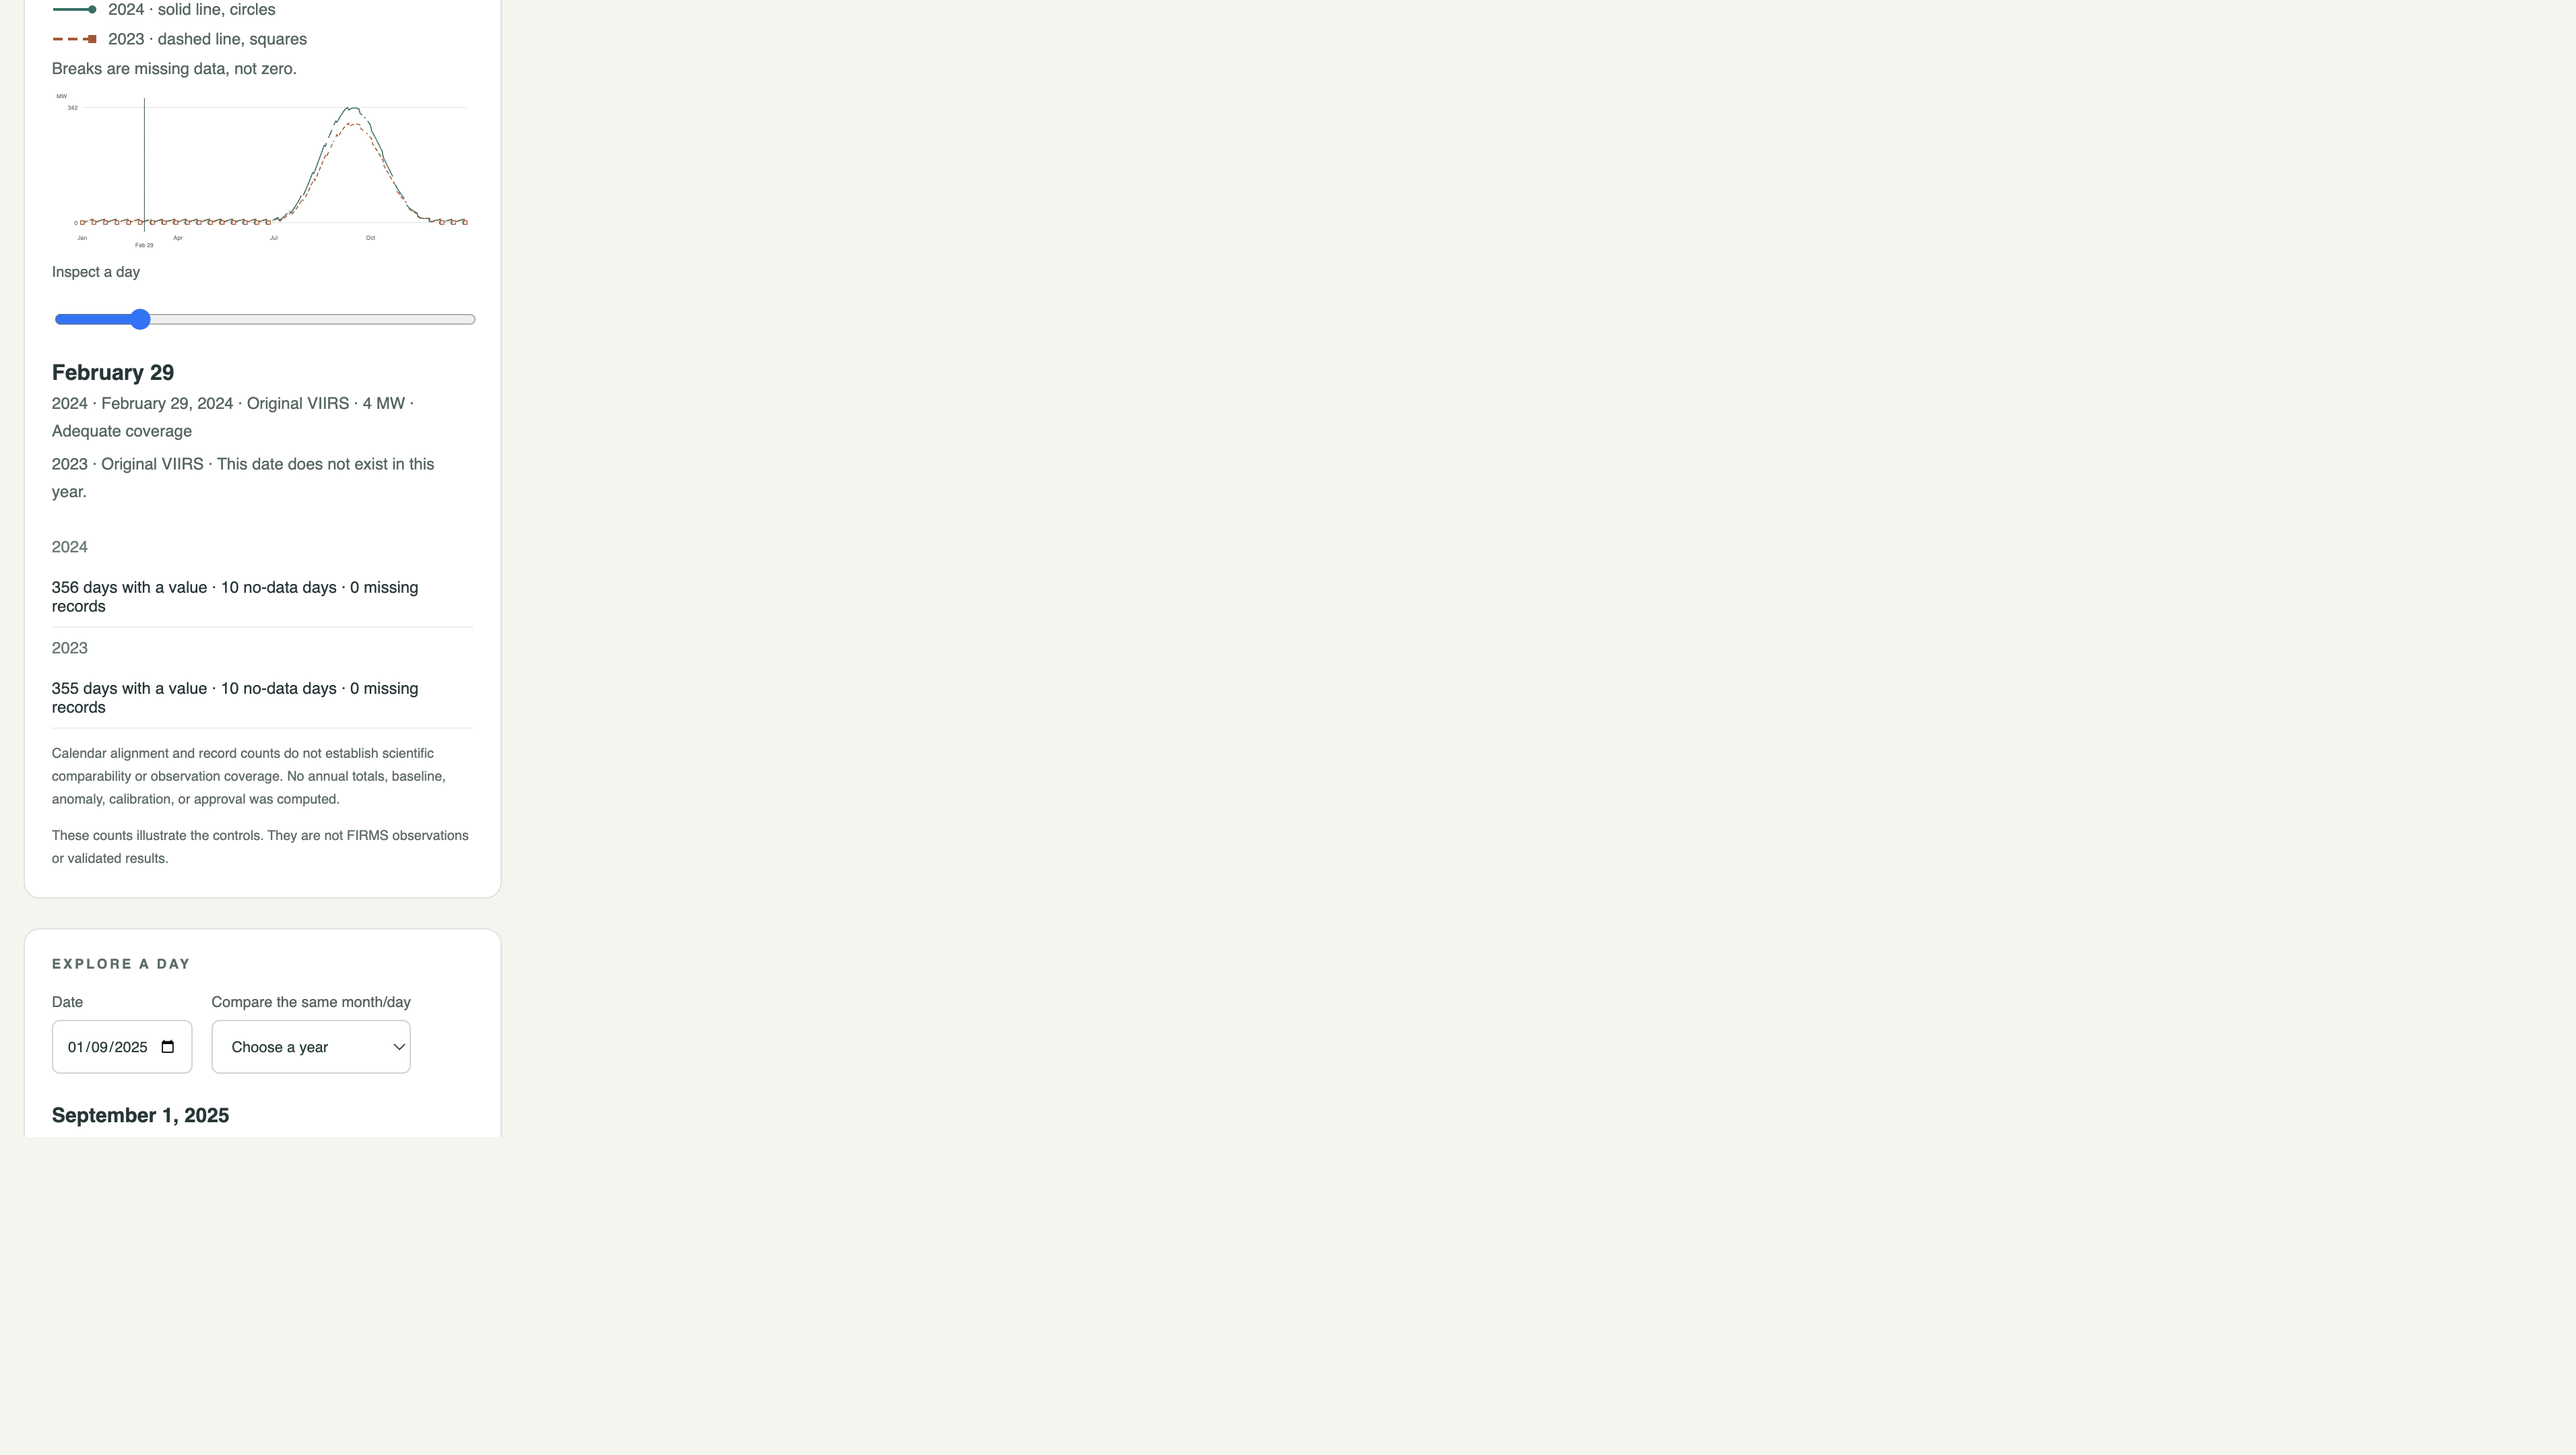
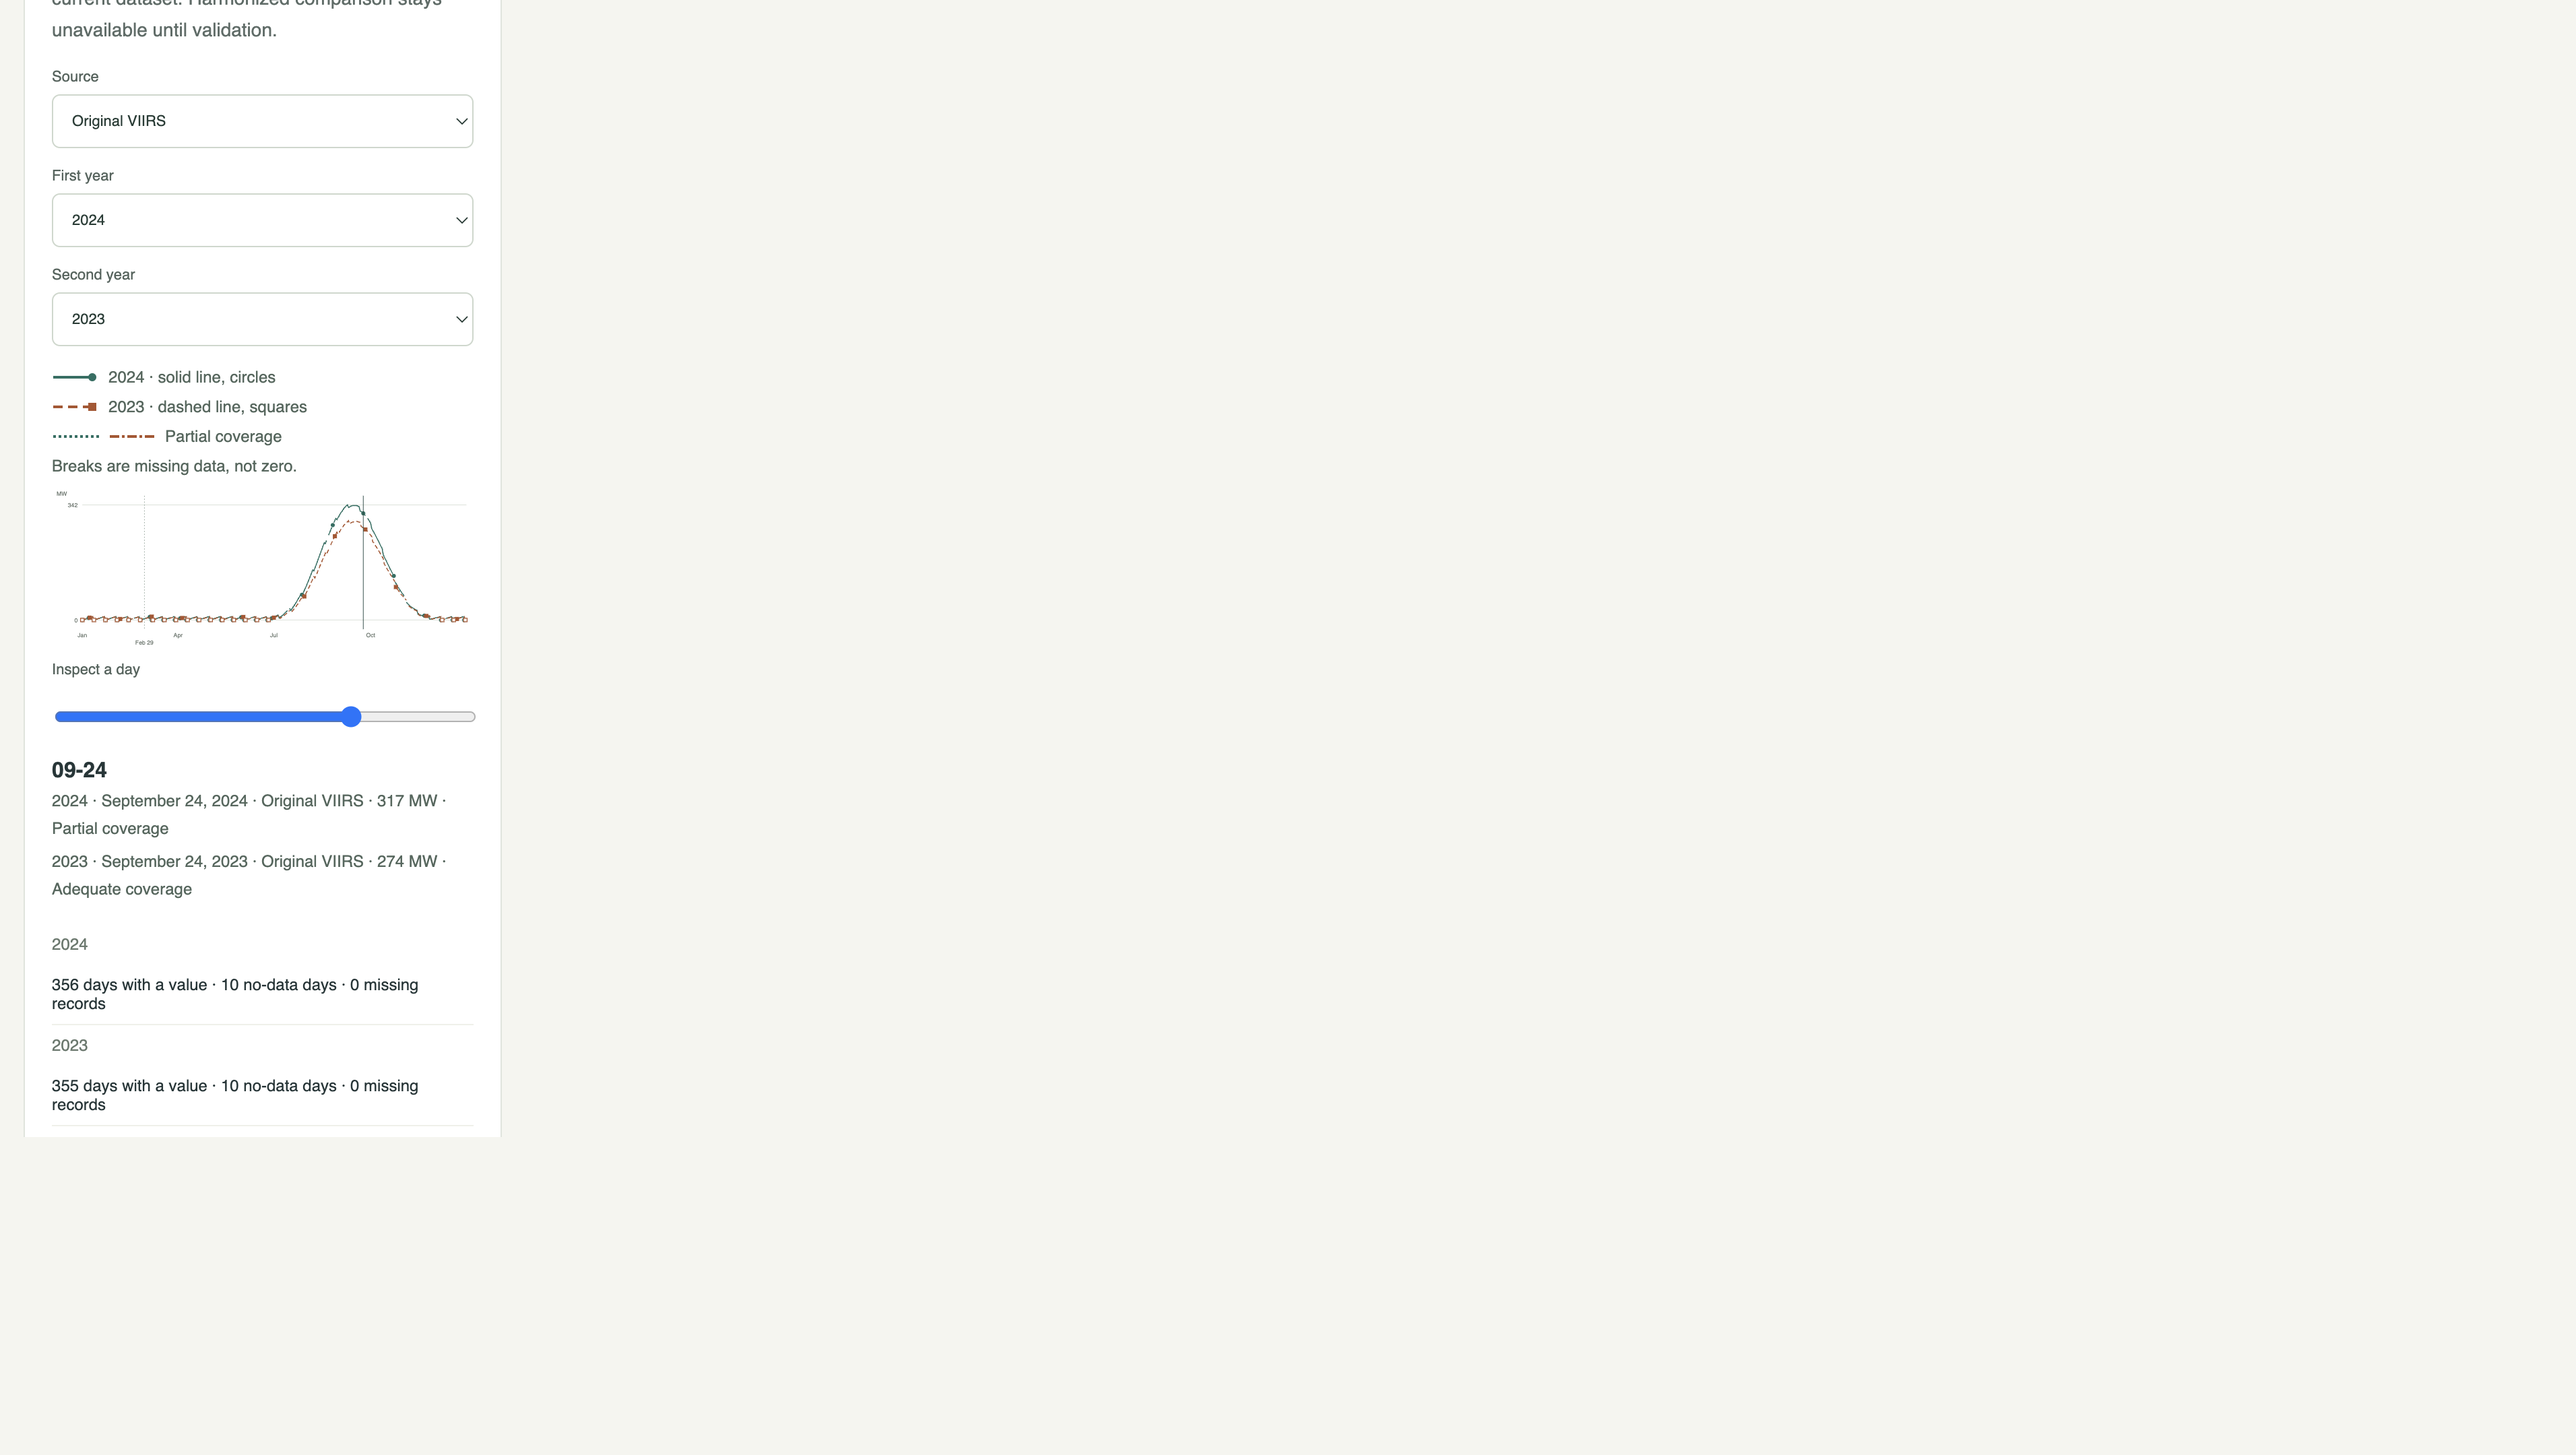
fix: show isolated nonzero comparison days
A one-day segment only produced a move command, so a real value between gaps disappeared. Each year now keeps its own marker, and the legend shows the partial-coverage strokes.

diff --git a/app/src/components/ComparisonChart.tsx b/app/src/components/ComparisonChart.tsx
@@ -7,7 +7,9 @@ import {
 import {
   describePoint,
   FEBRUARY_29_SLOT,
+  segmentDash,
   segmentPath,
+  singletonValue,
   valueToY,
 } from "../data/comparison-chart";
 import { formatMetric } from "../data/format";
@@ -101,6 +103,31 @@ export default function ComparisonChart({
             {index === 0 ? "solid line, circles" : "dashed line, squares"}
           </span>
         ))}
+        <span>
+          <svg className="legend-sample" viewBox="0 0 36 12" aria-hidden="true">
+            <line
+              x1="1"
+              y1="6"
+              x2="35"
+              y2="6"
+              stroke="#1f6f62"
+              strokeWidth="2"
+              strokeDasharray={segmentDash(partialSample, "")}
+            />
+          </svg>
+          <svg className="legend-sample" viewBox="0 0 36 12" aria-hidden="true">
+            <line
+              x1="1"
+              y1="6"
+              x2="35"
+              y2="6"
+              stroke="#ad532b"
+              strokeWidth="2"
+              strokeDasharray={segmentDash(partialSample, "7 4")}
+            />
+          </svg>
+          Partial coverage
+        </span>
         <span>Breaks are missing data, not zero.</span>
       </div>
       <svg
@@ -191,18 +218,33 @@ export default function ComparisonChart({
         ))}
         {comparison.series.map((series, index) => (
           <g key={series.year}>
-            {series.segments.map((segment) => (
-              <path
-                key={`${series.year}-${segment.startSlot}-${segment.status}`}
-                d={segmentPath(series.points, segment, x, y)}
-                fill="none"
-                stroke={index === 0 ? "#1f6f62" : "#ad532b"}
-                strokeWidth={segment.isExtrapolated ? 1.25 : 1.75}
-                strokeDasharray={
-                  dashFor(segment, styles[index].dash) || undefined
-                }
-              />
-            ))}
+            {series.segments.map((segment) => {
+              const alone = singletonValue(series.points, segment);
+              const color = index === 0 ? "#1f6f62" : "#ad532b";
+              return (
+                <g
+                  key={`${series.year}-${segment.startSlot}-${segment.status}`}
+                >
+                  <path
+                    d={segmentPath(series.points, segment, x, y)}
+                    fill="none"
+                    stroke={color}
+                    strokeWidth={segment.isExtrapolated ? 1.25 : 1.75}
+                    strokeDasharray={
+                      segmentDash(segment, styles[index].dash) || undefined
+                    }
+                  />
+                  {alone === null ? null : (
+                    <SingletonMark
+                      cx={x(segment.startSlot)}
+                      cy={y(alone)}
+                      square={index === 1}
+                      color={color}
+                    />
+                  )}
+                </g>
+              );
+            })}
             {series.points
               .filter((item) => item.value === 0)
               .map((item) => (
@@ -262,11 +304,30 @@ export default function ComparisonChart({
   );
 }
 
-function dashFor(segment: ComparisonSegment, yearDash: string) {
-  if (segment.isExtrapolated || segment.valueBasis === "estimated_from_modis")
-    return "2 3";
-  if (segment.status === "partial") return yearDash ? "7 2 2 2" : "2 2";
-  return yearDash;
+const partialSample: ComparisonSegment = {
+  startSlot: 0,
+  endSlot: 0,
+  status: "partial",
+  valueBasis: "observed_viirs",
+  isExtrapolated: false,
+};
+
+function SingletonMark({
+  cx,
+  cy,
+  square,
+  color,
+}: {
+  cx: number;
+  cy: number;
+  square: boolean;
+  color: string;
+}) {
+  return square ? (
+    <rect x={cx - 3.5} y={cy - 3.5} width="7" height="7" fill={color} />
+  ) : (
+    <circle cx={cx} cy={cy} r="3.5" fill={color} />
+  );
 }
 
 function ZeroMark({

diff --git a/app/src/data/comparison-chart.test.ts b/app/src/data/comparison-chart.test.ts
@@ -5,7 +5,9 @@ import type { ComparisonPoint, ComparisonSegment } from "./annual-comparison";
 import {
   describePoint,
   FEBRUARY_29_SLOT,
+  segmentDash,
   segmentPath,
+  singletonValue,
   valueToY,
 } from "./comparison-chart";
 
@@ -77,6 +79,36 @@ test("a segment path does not cross a gap or a coverage change", () => {
     ).startsWith("M20"),
     true,
   );
+});
+
+test("a one-day nonzero segment keeps a marker and does not draw a line", () => {
+  const points = [point(4, 12), point(5, null, "no_data"), point(6, 0)];
+  const alone: ComparisonSegment = {
+    startSlot: 4,
+    endSlot: 4,
+    status: "available",
+    valueBasis: "observed_viirs",
+    isExtrapolated: false,
+  };
+  const path = segmentPath(
+    points,
+    alone,
+    (slot) => slot * 10,
+    (value) => value,
+  );
+  assert.equal(path.includes("L"), false);
+  assert.equal(singletonValue(points, alone), 12);
+  assert.equal(
+    singletonValue(points, { ...alone, startSlot: 6, endSlot: 6 }),
+    null,
+  );
+  assert.equal(
+    singletonValue(points, { ...alone, startSlot: 4, endSlot: 6 }),
+    null,
+  );
+  const partial: ComparisonSegment = { ...alone, status: "partial" };
+  assert.equal(segmentDash(partial, ""), "2 2");
+  assert.equal(segmentDash(partial, "7 4"), "7 2 2 2");
 });
 
 test("zero stays distinct from missing data in the inspection text", () => {

diff --git a/app/src/data/comparison-chart.ts b/app/src/data/comparison-chart.ts
@@ -39,6 +39,28 @@ export function valueToY(
   return bottom - ((value - min) / (max - min)) * (bottom - top);
 }
 
+/**
+ * A one-day nonzero observation has no line to follow. Return its value so the
+ * chart can draw that year's marker. Zeros and longer segments stay unchanged.
+ */
+export function singletonValue(
+  points: readonly ComparisonPoint[],
+  segment: ComparisonSegment,
+) {
+  if (segment.startSlot !== segment.endSlot) return null;
+  const point = points.find((item) => item.slot === segment.startSlot);
+  if (!point || point.value === null || point.value === 0) return null;
+  return point.value;
+}
+
+/** Stroke for one segment. Partial coverage never reuses the year's ordinary dash. */
+export function segmentDash(segment: ComparisonSegment, yearDash: string) {
+  if (segment.isExtrapolated || segment.valueBasis === "estimated_from_modis")
+    return "2 3";
+  if (segment.status === "partial") return yearDash ? "7 2 2 2" : "2 2";
+  return yearDash;
+}
+
 /** One segment only. A gap or a change of coverage must start a new path. */
 export function segmentPath(
   points: readonly ComparisonPoint[],
